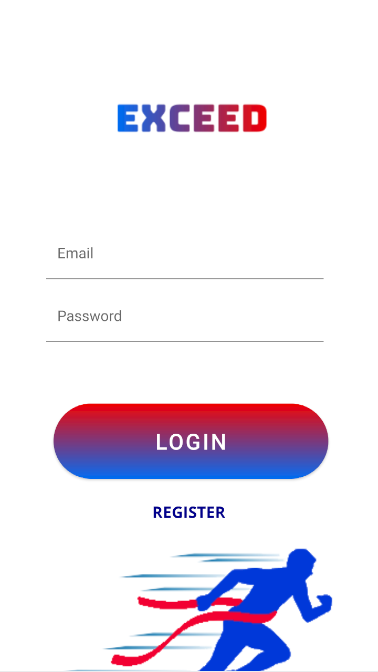
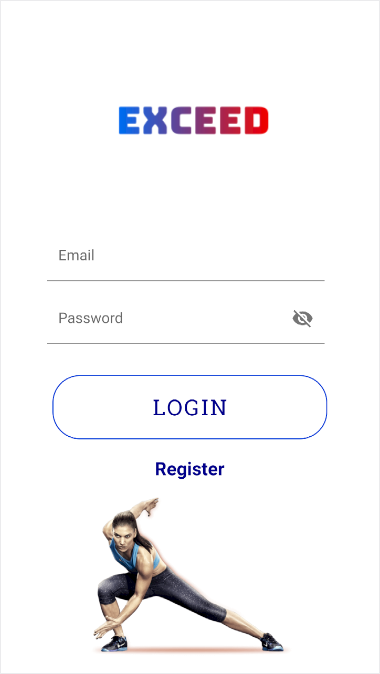
Mejoras finales diseño y añadidas capturas en README

Changed region(s): [[0.1164, 0.5625, 0.9021, 1.0], [0.1164, 0.3438, 0.8439, 0.5], [0.291, 0.1562, 0.7275, 0.2188]]

diff --git a/app/src/main/java/com/example/mynicestart/SplashScreen.java b/app/src/main/java/com/example/mynicestart/SplashScreen.java
@@ -18,7 +18,7 @@ import com.bumptech.glide.load.resource.drawable.DrawableTransitionOptions;
 /**Crea un Activity con el logo de la app y arranca la aplicacion
  * @author Ionut Alin Bozintan
  * @see LoginActivity
- * @version 0.1
+ * @version Beta 0.1
  */
 
 public class SplashScreen extends Activity {
@@ -47,7 +47,11 @@ public class SplashScreen extends Activity {
         openApp(true);
     }
 
-
+    /**
+     * Crea un nuevo intent que inicia el splash screen y que transurridos 5 segundos,
+     * muestra la ventana de login.
+     * @param locationPermission
+     */
     private void openApp(boolean locationPermission) {
         Handler handler = new Handler();
         handler.postDelayed(new Runnable() {

diff --git a/app/src/main/java/com/example/mynicestart/LoginActivity.java b/app/src/main/java/com/example/mynicestart/LoginActivity.java
@@ -11,8 +11,10 @@ import android.widget.Button;
 import android.widget.ImageView;
 import android.widget.TextView;
     /**Crea un activity con una animacion y unos campos que son necesarios para iniciar sesión
-    en la aplicacion
+    en la aplicacion, si no se dispone de una cuenta, puede pulsar sobre el textView "Register"
+    para crear una cuenta.
     @see RegisterActivity
+    @see VentanaPrincipal
     * */
 public class LoginActivity extends AppCompatActivity {
     Button btn_login;

diff --git a/app/src/main/java/com/example/mynicestart/RegisterActivity.java b/app/src/main/java/com/example/mynicestart/RegisterActivity.java
@@ -7,9 +7,12 @@ import android.view.animation.Animation;
 import android.view.animation.AnimationUtils;
 import android.widget.ImageView;
 import android.widget.TextView;
-
 import androidx.appcompat.app.AppCompatActivity;
 
+/**Permite crear un nuevo usuario para iniciar sesion en la aplicacion
+ * @author Ionut Alin
+ * @see LoginActivity
+ */
 public class RegisterActivity extends AppCompatActivity {
     TextView txtLogin;
     ImageView imgLogo2;

diff --git a/app/src/main/java/com/example/mynicestart/VentanaPrincipal.java b/app/src/main/java/com/example/mynicestart/VentanaPrincipal.java
@@ -11,6 +11,11 @@ import android.widget.ImageView;
 import com.bumptech.glide.Glide;
 import com.bumptech.glide.load.resource.drawable.DrawableTransitionOptions;
 
+/**Muestra el perfil del usuario logeado. Para ver el contenido de la
+ * aplicación, se deberá pulsar sobre el botón "Acceder"
+ * @author Ionut Alin
+ * @see MainActivity
+ */
 public class VentanaPrincipal extends AppCompatActivity {
     Button btn_ok;
     ImageView imgPerfil;

diff --git a/app/src/main/java/com/example/mynicestart/MainActivity.java b/app/src/main/java/com/example/mynicestart/MainActivity.java
@@ -4,6 +4,10 @@ import androidx.appcompat.app.AppCompatActivity;
 
 import android.os.Bundle;
 
+/**Muestra el contenido de la aplicación
+ * @author Ionut Alin
+ *
+ */
 public class MainActivity extends AppCompatActivity {
 
     @Override

diff --git a/README.md b/README.md
@@ -1,5 +1,9 @@
-# Proyecto MyNiceStart Ionut
-        > Linux is love
-        splash | login
-        -------|------
-![Ionutalin23](img/splash.PNG)|![](img/login.PNG)
+# Proyecto MyNiceStart Ionut Bozintan
+> Interfaces is Love
+
+splash | login
+-------|------
+![Ionutalin23](img/splash.PNG) | ![](img/login.PNG)
+register | main
+![](img/register.PNG) | ![](img/perfil.PNG)
+![](img/main.PNG) |
